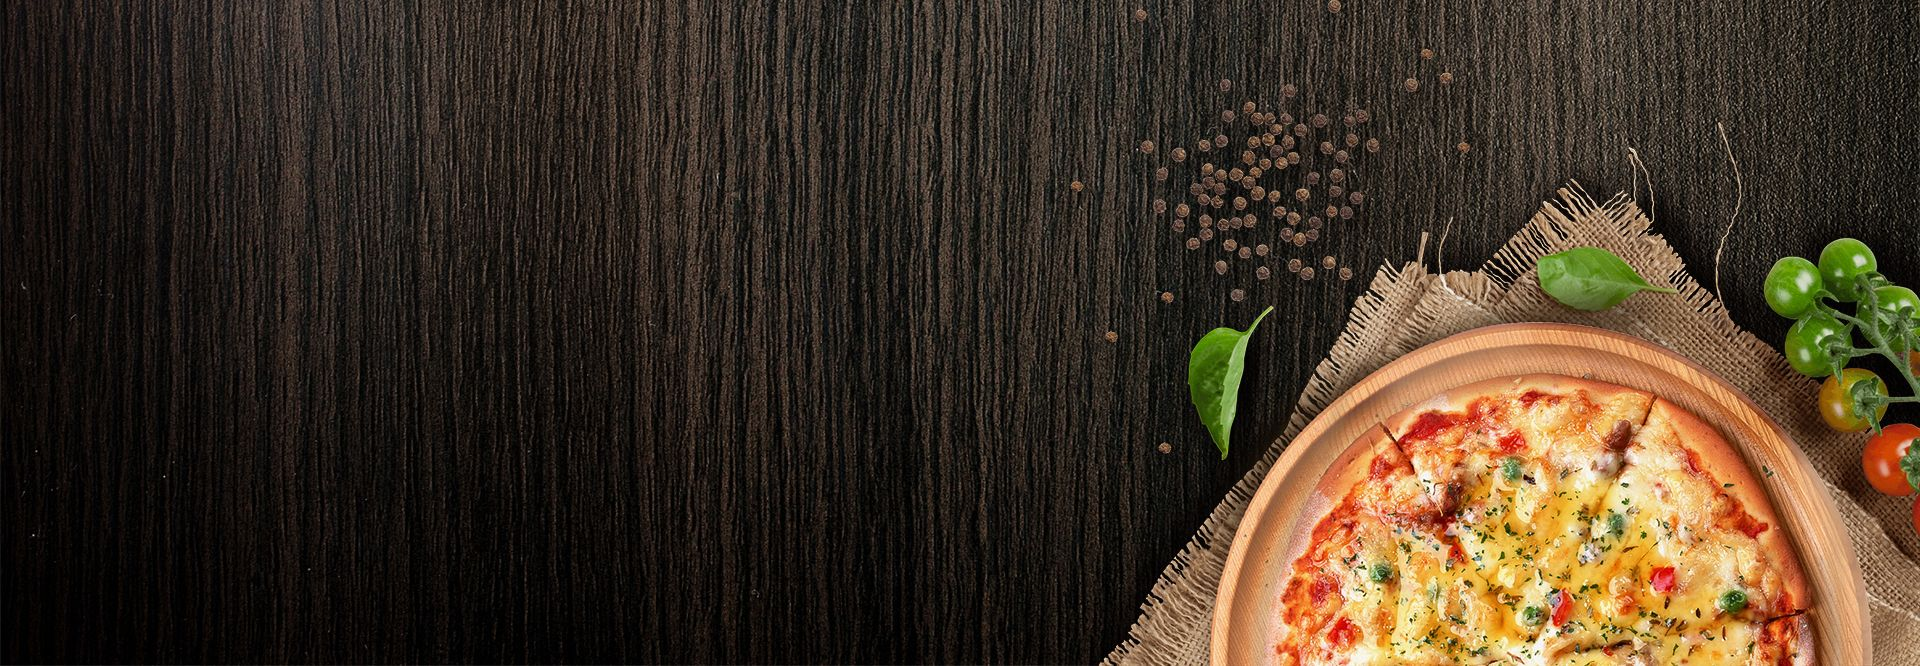
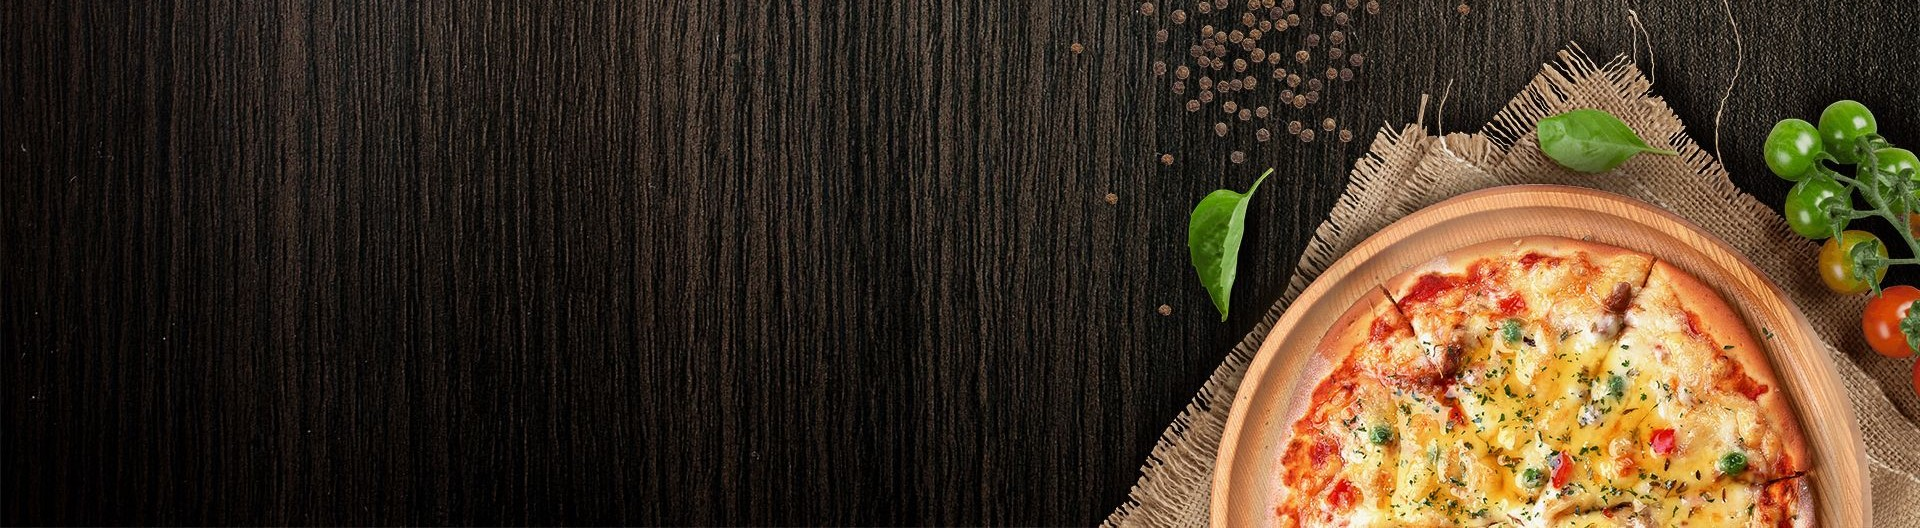
salvando arquivos

diff --git a/Projeto/Pizzaria/index2.html b/Projeto/Pizzaria/index2.html
@@ -1,0 +1,49 @@
+<!DOCTYPE html>
+<html lang="pt-br">
+<head>
+    <meta charset="UTF-8">
+    <meta name="viewport" content="width=device-width, initial-scale=1.0">
+    <title>PIZZARIA A MELHOR</title>
+    <link rel="icon" href="favicon.ico" type="image/x-icon">
+
+    <link rel="stylesheet" href="estilo/main.css"> <!-- CSS da página principal -->
+    <link rel="stylesheet" href="estilo/navbar.css"> <!-- CSS da barra de navegação-->
+
+</head>
+<body>
+
+    <div class="cabecalho">
+        <div class="titulo-cabecalho">
+            <header>PIZZA PLUS</header>
+        </div>
+    </div>
+
+    <div class="navbar">
+        <nav>
+            <ul>
+                <li><a href="#">Home</a></li>
+                <li><a href="#">Empresas</a></li>
+                <li><a href="#">Pedidos</a></li>
+                <li><a href="#">Login</a></li>
+            </ul>
+        </nav>
+    </div>
+
+    <div class="aviso-block">
+        <h2>Avisos</h2>
+        <p>Rodízios: dia da semana e horário</p>
+        <p>Promoções como: Compre uma pizza grande e ganhe um refrigerante grátis! Por R$12,40!
+        </p>
+    </div>
+
+    <div class="menu-cardapio">
+        <h2>Menu</h2>
+    </div>
+
+    <div class="podape-container">
+        <footer>
+            &copy; 2024 Pizza Plus. Todos os direitos reservados.
+        </footer>
+    </div>
+</body>
+</html>

diff --git a/Projeto/Pizzaria/estilo/navbar.css b/Projeto/Pizzaria/estilo/navbar.css
@@ -1,0 +1,47 @@
+/* Estilos para a navegação do menu */
+.cabecalho {
+    width: 696px; /* largura */
+	height: 20px; /* altura */
+    background-image: url('/midia/bordaPizza.jpg'); /* Imagem de fundo */
+    background-size: cover; /* Cobrir todo o cabeçalho */
+    background-position: left 59%; /* Posição da imagem */
+    color: #fff; /* Cor do texto */
+    padding: 38px; /* Espaçamento interno */
+}
+
+/* Estilo do Título - Logo */
+.titulo-cabecalho {
+    font-size: 23px; /* tamanho da fonte */
+    text-align: left;
+}
+
+.navbar {
+    background-color: #3c1404; /* Cor de fundo */
+    padding: 15px; /* Espaçamento interno */
+    text-align: center; /* Alinhamento do texto */
+}
+
+.navbar ul {
+    list-style-type: none; /* Remover marcadores de lista */
+    margin: 0; /* Remover margem */
+    padding: 0; /* Remover preenchimento */
+}
+
+.navbar ul li {
+    display: inline; /* Exibir itens em linha */
+    margin-right: 20px; /* Margem à direita entre itens */
+    color: #fff; /* Cor do texto */
+}
+
+.navbar ul li:last-child {
+    margin-right: 0; /* Remover margem à direita do último item */
+}
+
+.navbar ul li a {
+    text-decoration: none; /* Remover decoração de link */
+    color: #fff; /* Cor do link */
+}
+
+.navbar ul li a:hover {
+    color: #fd7709; /* Cor do link quando o mouse passa por cima */
+}

diff --git a/Projeto/Pizzaria/estilo/main.css b/Projeto/Pizzaria/estilo/main.css
@@ -1,0 +1,20 @@
+/* Estilo da Página Proncipal - Home */
+body {
+    background-color: antiquewhite;
+}
+
+/* Estilo do bloco do Aviso */
+.aviso-block {
+    background-color: #ebc18b;
+}
+
+/* Estilo do bloco do Menu */
+
+
+/* Estilo do Rodapé */
+footer {
+    background-color: #3c1404; /* Cor de fundo */
+    color: #fff; /* Cor do texto */
+    padding: 15px; /* Espaçamento interno */
+    text-align: center; /* Alinhamento do texto */
+}
